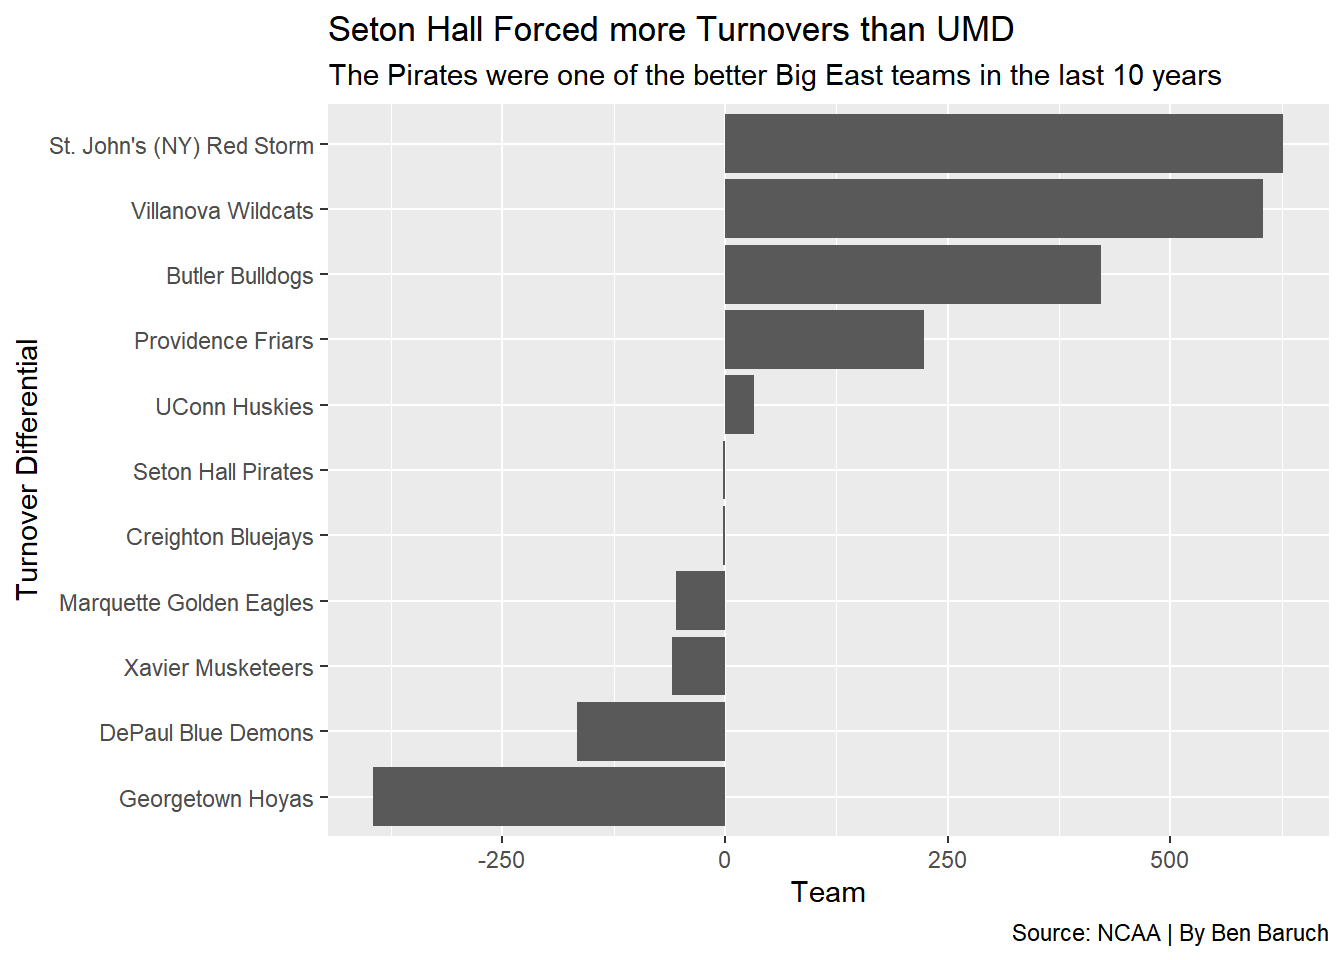
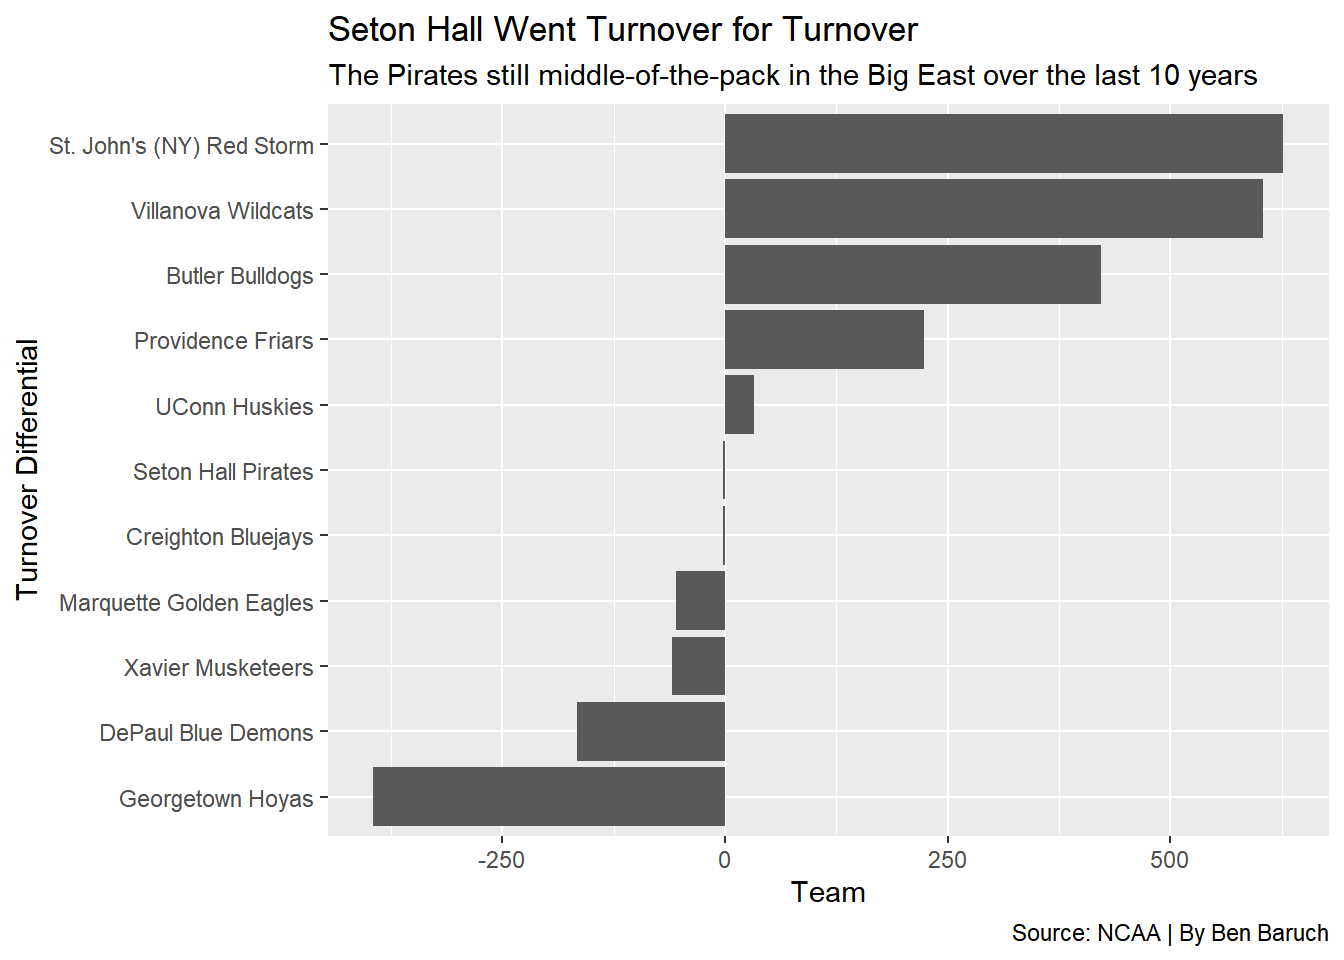
more changes to Willard

Changed region(s): [[0.3438, 0.0, 0.9375, 0.0938]]

diff --git a/sportsblog/2022/11/15/what-defines-a-kevin-willard-team/index.html b/sportsblog/2022/11/15/what-defines-a-kevin-willard-team/index.html
@@ -184,9 +184,9 @@ ggplot() +
   geom_point(data=Maryland_total, aes(x=Turnovers, y=Forcing_Turnovers), color = &quot;red&quot;, size = 3) +
   geom_point(data=Seton_Hall, aes(x=Turnovers, y=Forcing_Turnovers), color = &quot;blue&quot;, size = 3) +
   geom_smooth(data=Turnovers_filter, aes(x=Turnovers, y=Forcing_Turnovers), method=&quot;lm&quot;) + 
-  labs(title=&quot;Seton Hall Forced more Turnovers than UMD&quot;, subtitle=&quot;The Terps turned the ball over just as much, but couldn&#39;t get their opponents to make mistakes&quot;, x=&quot;Turnovers&quot;, y=&quot;Opponent Turnovers&quot;, caption=&quot;Source: NCAA | By Ben Baruch&quot;) </code></pre>
+  labs(title=&quot;Seton Hall Forced More Turnovers Than UMD&quot;, subtitle=&quot;The Terps turned the ball over just as much, but couldn&#39;t get their opponents to make mistakes&quot;, x=&quot;Turnovers&quot;, y=&quot;Opponent Turnovers&quot;, caption=&quot;Source: NCAA | By Ben Baruch&quot;) </code></pre>
 <p><img src="https://BenBaruch29.github.io/sportsblog/2022/11/15/what-defines-a-kevin-willard-team/index_files/figure-html/unnamed-chunk-3-1.png" width="672" /></p>
-<p>Seton Hall falls much closer to NCAA average when it comes to turnover differential. Maryland, on the other hand, has turned the ball over far more than their opponents.</p>
+<p>Seton Hall (in blue) falls much closer to NCAA average when it comes to turnover differential. Maryland (in red), on the other hand, has turned the ball over far more than their opponents.</p>
 <p>The media described Willard as aggressive on defense. One way that could manifest on the stat sheet is opponent turnovers.</p>
 <p>Seton Hall’s opponents have turned the ball over much more than Maryland’s. That could be because of weaker competition in the Big East Conference, though it’s tough to tell only from the data at hand. Still, aggressive defense is a likely culprit. All this lands Seton Hall toward the top of their conference in terms of turnover differential in the last ten years. Maryland is toward the bottom (see bar charts).</p>
 <p>An important analytic to look at when it comes to turnovers is turnover ratio, the percentage of a team’s possessions that end in a turnover.</p>
@@ -207,7 +207,7 @@ ggplot() +
       weight=`Turnover_Differential`
       )
   ) + 
-  labs(title=&quot;Seton Hall Forced more Turnovers than UMD&quot;, subtitle=&quot;The Pirates were one of the better Big East teams in the last 10 years&quot;, x=&quot;Turnover Differential&quot;, y=&quot;Team&quot;, caption=&quot;Source: NCAA | By Ben Baruch&quot;) + coord_flip() </code></pre>
+  labs(title=&quot;Seton Hall Went Turnover for Turnover&quot;, subtitle=&quot;The Pirates still middle-of-the-pack in the Big East over the last 10 years&quot;, x=&quot;Turnover Differential&quot;, y=&quot;Team&quot;, caption=&quot;Source: NCAA | By Ben Baruch&quot;) + coord_flip() </code></pre>
 <p><img src="https://BenBaruch29.github.io/sportsblog/2022/11/15/what-defines-a-kevin-willard-team/index_files/figure-html/unnamed-chunk-4-1.png" width="672" /></p>
 <pre class="r"><code>Big_Ten_Turnovers &lt;- logs %&gt;% group_by(TeamFull) %&gt;% filter(Season %in% Maryland_Big_Ten, Conference == &quot;Big Ten&quot;) %&gt;% summarize(
   Turnovers = sum(TeamTurnovers),
